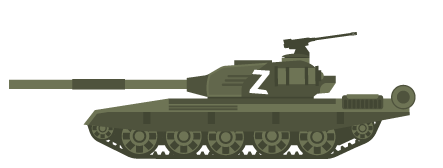
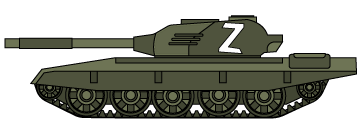
add models

diff --git a/style.css b/style.css
@@ -1,5 +1,7 @@
 body {
   height: 100vh;
+  padding: 0;
+  margin: 0;
 }
 
 #game {
@@ -10,35 +12,38 @@ body {
   display: none;
 }
 
+@keyframes float {
+  0% {
+    transform: translatey(0px);
+  }
+  50% {
+    transform: translatey(-20px);
+  }
+  100% {
+    transform: translatey(0px);
+  }
+}
+
+
 #video-bg {
-  position: fixed;
-  top: 0;
-  right: 0;
-  bottom: 0;
-  left: 0;
+  padding: 0;
   overflow: hidden;
   z-index: 1;
-  background: url(images/backgrounds/kremlin.png) no-repeat #384657;
-  background-size: cover;
+  height: 100vh;
+  display: flex;
+  justify-content: center;
+  align-items: center;
+  /*background: url(images/backgrounds/bg-level2.png) repeat-x center bottom #D6E1F5;*/
+  background: url(images/backgrounds/bg-level3.png) repeat-x center bottom #181B1E;
+  background-size: 1000px;
+  animation: background-move 15s linear infinite;
 }
-
-#video-bg > video {
-  position: absolute;
-  top: 0;
-  left: 0;
-  min-width: 100%;
-  min-height: 100%;
-  width: auto;
-  height: auto;
-}
-
-@supports (object-fit: cover) {
-  #video-bg > video {
-    top: 0;
-    left: 0;
-    width: 100%;
-    height: 100%;
-    object-fit: cover;
+@keyframes background-move {
+  0% {
+    background-position-x: 0;
+  }
+  100% {
+    background-position-x: -1000px;
   }
 }
 
@@ -101,9 +106,11 @@ body {
   transition: all 0.2s;
 }
 #bird.duck {
-  width: 168px;
-  background: url(images/birds/duck.png);
+  width: 300px;
+  background: url(images/birds/duck-fly.gif);
   transition-duration: 0.0001ms;
+
+ animation: float 3s ease-in-out infinite;
 }
 #bird.duck.left {
   width: 168px;
@@ -133,10 +140,10 @@ body {
 
 
 .boom {
-  background: url(images/weapons/boom.gif);
+  background: url(images/weapons/boom-2.gif);
   position: absolute;
-  width: 200px;
-  height: 200px;
+  width: 224px;
+  height: 254px;
   z-index: 9999;
   top: 40%;
   left: 50%;
@@ -152,8 +159,8 @@ body {
 
 
 .enemy.tank {
-  height: 250px;
-  background: url("images/enemies/tank.png") no-repeat;
+  height: 300px;
+  background: url("images/enemies/enem-2.gif") no-repeat;
   padding-bottom: 250px;
 }
 

diff --git a/script.js b/script.js
@@ -56,7 +56,7 @@ const moveBullet = bullet => {
 const createEnemy = () => {
   let enemy = document.createElement('div');
   enemy.className = 'enemy ' + typeEnemy();
-  enemy.style.top = document.querySelector('#app').clientHeight - 150 + 'px';
+  enemy.style.top = document.querySelector('#app').clientHeight - 200 + 'px';
 
   gameBlock.appendChild(enemy);
   moveEnemy(enemy);

diff --git a/index.html b/index.html
@@ -8,9 +8,7 @@
 </head>
 <body>
 
-	<div id="video-bg">
-	    <video width="100%" height="auto" preload="auto" autoplay="true" loop="true" muted="muted" poster="images/backgrounds/kremlin.png"></video>
-	</div>
+	<div id="video-bg"></div>
 
 	<div id="app">
 		<div id="game">
